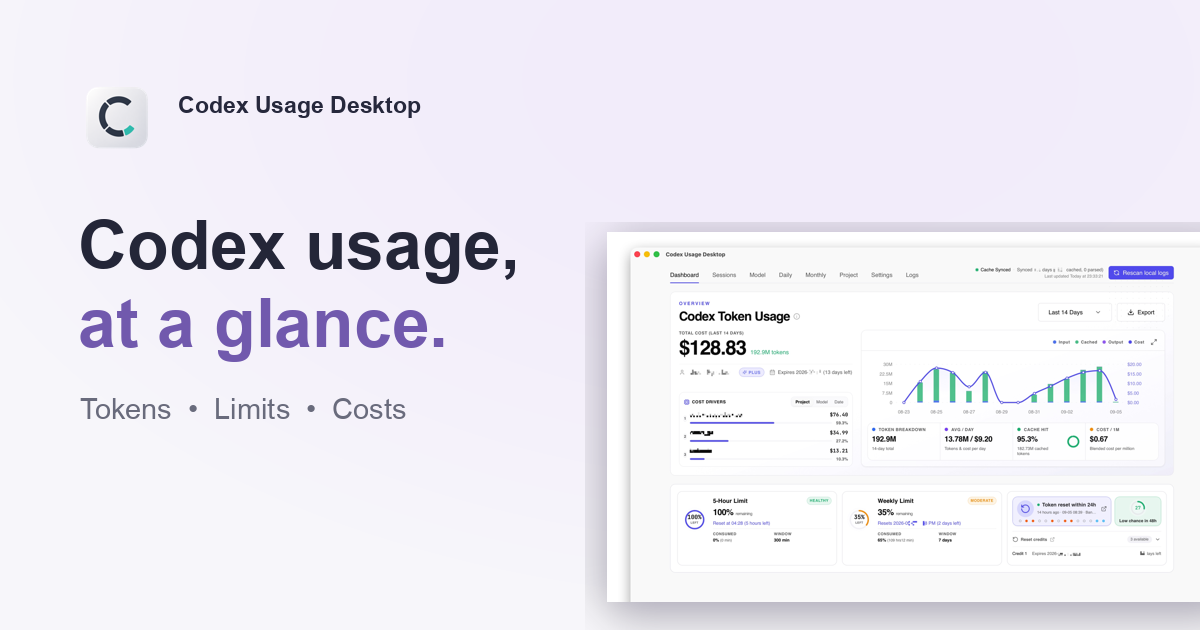
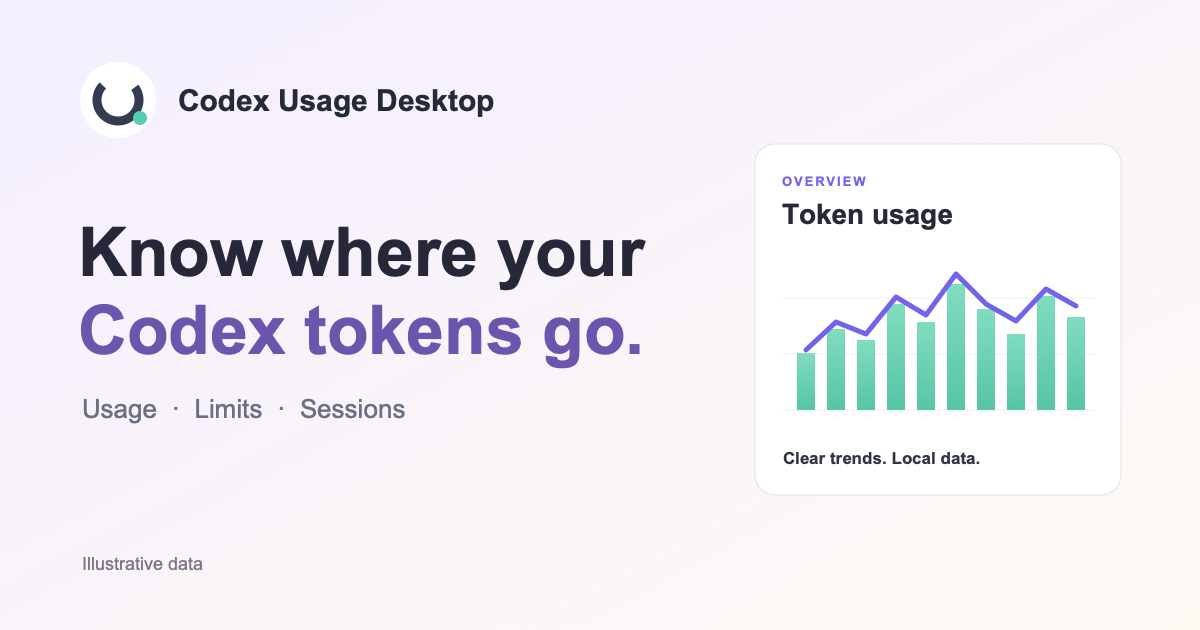
Improve homepage product story with privacy-safe visuals

diff --git a/src/lib/site.ts b/src/lib/site.ts
@@ -20,11 +20,11 @@ export const pathFor = (lang: Lang, section = '') => getRelativeLocaleUrl(lang, 
 export const equivalents = (section = '') => languages.map((lang) => ({ lang, href: getAbsoluteLocaleUrl(lang, section) }));
 
 type FeatureCopy = {
-  name: string; eyebrow: string; title: string; description: string; points: string[]; image: string; imageAlt: string;
+  name: string; eyebrow: string; title: string; description: string; points: string[]; imageAlt: string;
 };
 type Copy = {
   locale: string; name: string; nav: { features: string; download: string; docs: string; github: string; menu: string; language: string };
-  home: { eyebrow: string; title: string; lead: string; cta: string; secondary: string; proof: string[]; sectionTitle: string; sectionLead: string; privacyTitle: string; privacyBody: string; privacyLink: string; closing: string };
+  home: { eyebrow: string; title: string; lead: string; cta: string; secondary: string; proof: string[]; sectionTitle: string; sectionLead: string; visualNote: string; workflowEyebrow: string; workflowTitle: string; workflowLead: string; workflow: { title: string; body: string }[]; privacyTitle: string; privacyBody: string; privacyLink: string; closing: string };
   download: { title: string; lead: string; windows: string; windowsNote: string; mac: string; macNote: string; arm: string; intel: string; requirements: string; requireBody: string; firstLaunch: string; firstLaunchBody: string; releases: string; auto: string };
   features: Record<FeatureSlug, FeatureCopy>;
   docs: { title: string; lead: string; open: string; all: string; edit: string; names: Record<DocSlug, string> };
@@ -41,41 +41,42 @@ export const copy: Record<Lang, Copy> = {
       cta: 'Download free', secondary: 'Explore the dashboard',
       proof: ['Local-first by design', 'No API key required', 'macOS and Windows'],
       sectionTitle: 'The whole picture, at a glance.', sectionLead: 'From a quick quota check to the details behind a long session, get answers without digging through logs.',
+      visualNote: 'Illustrative usage data. Product screenshots show public settings and pricing only.', workflowEyebrow: 'A simple flow', workflowTitle: 'From a quick check to a clear answer.', workflowLead: 'Open the app when you need context, or keep your limits visible while you work.', workflow: [{ title: 'Check your headroom', body: 'See remaining limits and reset times in the dashboard or menu bar.' }, { title: 'Find the source', body: 'Compare trends, projects and models to spot what changed.' }, { title: 'Review or export', body: 'Follow a session timeline or export the selected range.' }],
       privacyTitle: 'Your sessions stay yours.', privacyBody: 'Codex Usage Desktop reads session logs locally and stores aggregated usage in a local SQLite cache. It never uploads your session logs. Live limits and public updates use specific network requests.', privacyLink: 'How privacy works',
       closing: 'Spend less time guessing. Get back to building.',
     },
     download: { title: 'Download Codex Usage Desktop', lead: 'Free and open source. Choose the installer for your computer, then open the app to index your existing Codex sessions.', windows: 'Windows 10/11 x64', windowsNote: 'Current-user installer. The installer is not yet Authenticode-signed, so SmartScreen may ask you to confirm the GitHub release source.', mac: 'macOS', macNote: 'Open the DMG and move the app to Applications.', arm: 'Apple Silicon', intel: 'Intel Mac', requirements: 'Before you begin', requireBody: 'Use Codex CLI first so local session logs exist. Live limits require a signed-in local Codex CLI session.', firstLaunch: 'First launch on macOS', firstLaunchBody: 'If Gatekeeper blocks the app, open System Settings → Privacy & Security and allow it there. The app does not bypass Gatekeeper.', releases: 'Release notes and all assets', auto: 'Choose a download' },
     features: {
-      'usage-tracking': { name: 'Usage tracking', eyebrow: 'Usage tracking', title: 'See every token in context.', description: 'Turn local Codex session logs into a clear view of input, output, and cached tokens. Compare daily and monthly trends, cache hit rate, and custom date ranges.', points: ['Daily and monthly usage trends', 'Input, output, and cached token breakdowns', 'Project, model, and session drilldowns'], image: '/images/dashboard.jpg', imageAlt: 'Codex Usage Desktop dashboard with usage charts' },
-      'quota-monitoring': { name: 'Quota monitoring', eyebrow: 'Quota monitoring', title: 'Know your limits before you hit them.', description: 'See your live 5-hour and weekly or monthly limits, remaining quota, and reset countdowns using your existing local Codex login.', points: ['Remaining quota and reset times', 'Menu bar and system tray visibility', 'Reset credits and forecasts when available'], image: '/images/menubar.jpg', imageAlt: 'Codex quota in the macOS menu bar' },
-      'cost-analysis': { name: 'Cost analysis', eyebrow: 'Cost analysis', title: 'Understand what drives your estimated cost.', description: 'See estimated costs beside token usage, then break them down by project, model, day, month, or session. Estimates use available model pricing.', points: ['Project and model cost breakdowns', 'Token composition beside estimates', 'Export the selected range to Excel or Markdown'], image: '/images/project-usage-detail.jpg', imageAlt: 'Project usage detail with estimated costs' },
-      'session-analysis': { name: 'Session analysis', eyebrow: 'Session analysis', title: 'Follow the work behind the numbers.', description: 'Search your local Codex sessions and inspect a timeline of recorded commands, tools, patches, web searches, and usage.', points: ['Search by title, project, and model', 'Session timeline and subagent hierarchy', 'Usage and quota changes in context'], image: '/images/session-detail.jpg', imageAlt: 'Codex session detail timeline' },
+      'usage-tracking': { name: 'Usage tracking', eyebrow: 'Usage tracking', title: 'See every token in context.', description: 'Turn local Codex session logs into a clear view of input, output, and cached tokens. Compare daily and monthly trends, cache hit rate, and custom date ranges.', points: ['Daily and monthly usage trends', 'Input, output, and cached token breakdowns', 'Project, model, and session drilldowns'], imageAlt: 'Illustrative Codex Usage Desktop dashboard with sample usage data' },
+      'quota-monitoring': { name: 'Quota monitoring', eyebrow: 'Quota monitoring', title: 'Know your limits before you hit them.', description: 'See your live 5-hour and weekly or monthly limits, remaining quota, and reset countdowns using your existing local Codex login.', points: ['Remaining quota and reset times', 'Menu bar and system tray visibility', 'Reset credits and forecasts when available'], imageAlt: 'Codex Usage Desktop menu bar and system tray settings' },
+      'cost-analysis': { name: 'Cost analysis', eyebrow: 'Cost analysis', title: 'Understand what drives your estimated cost.', description: 'See estimated costs beside token usage, then break them down by project, model, day, month, or session. Estimates use available model pricing.', points: ['Project and model cost breakdowns', 'Token composition beside estimates', 'Export the selected range to Excel or Markdown'], imageAlt: 'Codex Usage Desktop public model pricing catalog' },
+      'session-analysis': { name: 'Session analysis', eyebrow: 'Session analysis', title: 'Follow the work behind the numbers.', description: 'Search your local Codex sessions and inspect a timeline of recorded commands, tools, patches, web searches, and usage.', points: ['Search by title, project, and model', 'Session timeline and subagent hierarchy', 'Usage and quota changes in context'], imageAlt: 'Illustrative Codex session timeline with sample events' },
     },
     docs: { title: 'Guides for everyday use', lead: 'Get set up, understand your numbers, and resolve common issues.', open: 'Read guide', all: 'All guides', edit: 'Improve this guide on GitHub', names: { 'getting-started': 'Install & get started', dashboard: 'Dashboard', quota: 'Quota & limits', 'projects-and-models': 'Projects & models', sessions: 'Sessions', resets: 'Quota resets', export: 'Export data', privacy: 'Privacy & network access', 'windows-wsl': 'Windows & WSL', 'advanced-settings': 'Advanced settings', troubleshooting: 'Troubleshooting' } },
     common: { learn: 'Learn more', get: 'Get the app', built: 'Free and open source', copyright: 'Codex Usage Desktop', home: 'Home' },
   },
   zh: {
     locale: 'zh-CN', name: '简体中文', nav: { features: '功能', download: '下载', docs: '文档', github: 'GitHub', menu: '打开菜单', language: '语言' },
-    home: { eyebrow: '更清楚地了解 Codex 使用情况', title: '每一个 Token，都心中有数。', lead: '在一款注重隐私的桌面应用中查看用量、监控额度并理解每段会话。Codex 数据留在你的电脑上。', cta: '免费下载', secondary: '探索看板', proof: ['本地优先', '无需 API Key', '支持 macOS 和 Windows'], sectionTitle: '从概览到细节，一目了然。', sectionLead: '快速查看剩余额度，也能深入长会话的细节，无需翻查日志。', privacyTitle: '会话数据由你掌控。', privacyBody: '应用在本地读取会话日志，并把汇总数据存入本地 SQLite 缓存，不会上传会话日志。实时额度与公开信息更新会使用特定网络请求。', privacyLink: '了解隐私机制', closing: '少一点猜测，多一点专注。' },
+    home: { eyebrow: '更清楚地了解 Codex 使用情况', title: '每一个 Token，都心中有数。', lead: '在一款注重隐私的桌面应用中查看用量、监控额度并理解每段会话。Codex 数据留在你的电脑上。', cta: '免费下载', secondary: '探索看板', proof: ['本地优先', '无需 API Key', '支持 macOS 和 Windows'], sectionTitle: '从概览到细节，一目了然。', sectionLead: '快速查看剩余额度，也能深入长会话的细节，无需翻查日志。', visualNote: '用量与会话画面为示意数据；现场截图仅展示公开设置和价格目录。', workflowEyebrow: '使用路径', workflowTitle: '从快速查看，到找到答案。', workflowLead: '工作时让额度常驻菜单栏，需要细节时再打开应用。', workflow: [{ title: '先看剩余额度', body: '在看板或菜单栏查看额度余额和重置时间。' }, { title: '找出用量来源', body: '对比趋势、项目和模型，定位变化。' }, { title: '回看或导出', body: '沿会话时间线复盘，或导出选定区间。' }], privacyTitle: '会话数据由你掌控。', privacyBody: '应用在本地读取会话日志，并把汇总数据存入本地 SQLite 缓存，不会上传会话日志。实时额度与公开信息更新会使用特定网络请求。', privacyLink: '了解隐私机制', closing: '少一点猜测，多一点专注。' },
     download: { title: '下载 Codex Usage Desktop', lead: '免费开源。选择适合电脑的安装包，打开应用即可索引已有的 Codex 会话。', windows: 'Windows 10/11 x64', windowsNote: '按当前用户安装。安装包尚未进行 Authenticode 签名，SmartScreen 可能提示你确认文件来自 GitHub Release。', mac: 'macOS', macNote: '打开 DMG，将应用拖入“应用程序”。', arm: 'Apple 芯片', intel: 'Intel Mac', requirements: '使用前准备', requireBody: '先使用 Codex CLI，确保本地已有会话日志。实时额度需要本机 Codex CLI 已登录。', firstLaunch: 'macOS 首次启动', firstLaunchBody: '如果 Gatekeeper 阻止启动，可在“系统设置 → 隐私与安全性”中允许。应用不会绕过 Gatekeeper。', releases: '发行说明与全部资产', auto: '选择下载版本' },
     features: {
-      'usage-tracking': { name: '用量追踪', eyebrow: '用量追踪', title: '看清每个 Token 的去向。', description: '把本地 Codex 会话日志变成清晰的输入、输出和缓存 Token 统计，并对比每日、每月趋势与缓存命中率。', points: ['每日与每月用量趋势', '输入、输出和缓存 Token 明细', '按项目、模型和会话深入查看'], image: '/images/dashboard.jpg', imageAlt: '显示用量图表的 Codex Usage Desktop 看板' },
-      'quota-monitoring': { name: '额度监控', eyebrow: '额度监控', title: '在触及限制前掌握余额。', description: '使用本机已有的 Codex 登录状态，查看实时 5 小时和每周或每月额度、剩余量及重置倒计时。', points: ['剩余额度与重置时间', '菜单栏和系统托盘常驻显示', '可用时展示重置额度和预测'], image: '/images/menubar.jpg', imageAlt: 'macOS 菜单栏中的 Codex 额度' },
-      'cost-analysis': { name: '成本分析', eyebrow: '成本分析', title: '理解预估成本来自哪里。', description: '将预估成本与 Token 用量放在一起，按项目、模型、日期和会话拆解。估算依据可用的模型价格。', points: ['项目和模型成本拆解', '预估成本与 Token 构成', '将选定日期范围导出为 Excel 或 Markdown'], image: '/images/project-usage-detail.jpg', imageAlt: '展示预估成本的项目用量详情' },
-      'session-analysis': { name: '会话分析', eyebrow: '会话分析', title: '沿时间线回看具体工作。', description: '搜索本地 Codex 会话，查看日志记录的命令、工具、补丁、网页搜索和用量变化。', points: ['按标题、项目和模型搜索', '会话时间线与子代理层级', '结合上下文查看用量和额度变化'], image: '/images/session-detail.jpg', imageAlt: 'Codex 会话详情时间线' },
+      'usage-tracking': { name: '用量追踪', eyebrow: '用量追踪', title: '看清每个 Token 的去向。', description: '把本地 Codex 会话日志变成清晰的输入、输出和缓存 Token 统计，并对比每日、每月趋势与缓存命中率。', points: ['每日与每月用量趋势', '输入、输出和缓存 Token 明细', '按项目、模型和会话深入查看'], imageAlt: '采用示意数据的 Codex Usage Desktop 看板' },
+      'quota-monitoring': { name: '额度监控', eyebrow: '额度监控', title: '在触及限制前掌握余额。', description: '使用本机已有的 Codex 登录状态，查看实时 5 小时和每周或每月额度、剩余量及重置倒计时。', points: ['剩余额度与重置时间', '菜单栏和系统托盘常驻显示', '可用时展示重置额度和预测'], imageAlt: 'Codex Usage Desktop 菜单栏与系统托盘设置' },
+      'cost-analysis': { name: '成本分析', eyebrow: '成本分析', title: '理解预估成本来自哪里。', description: '将预估成本与 Token 用量放在一起，按项目、模型、日期和会话拆解。估算依据可用的模型价格。', points: ['项目和模型成本拆解', '预估成本与 Token 构成', '将选定日期范围导出为 Excel 或 Markdown'], imageAlt: 'Codex Usage Desktop 公开模型价格目录' },
+      'session-analysis': { name: '会话分析', eyebrow: '会话分析', title: '沿时间线回看具体工作。', description: '搜索本地 Codex 会话，查看日志记录的命令、工具、补丁、网页搜索和用量变化。', points: ['按标题、项目和模型搜索', '会话时间线与子代理层级', '结合上下文查看用量和额度变化'], imageAlt: '采用示意事件的 Codex 会话时间线' },
     },
     docs: { title: '日常使用指南', lead: '完成安装、读懂数据并解决常见问题。', open: '阅读指南', all: '全部指南', edit: '在 GitHub 改进此指南', names: { 'getting-started': '安装与入门', dashboard: '看板', quota: '额度与限制', 'projects-and-models': '项目与模型', sessions: '会话', resets: '额度重置', export: '导出数据', privacy: '隐私与网络访问', 'windows-wsl': 'Windows 与 WSL', 'advanced-settings': '进阶设置', troubleshooting: '故障排查' } },
     common: { learn: '了解更多', get: '获取应用', built: '免费开源', copyright: 'Codex Usage Desktop', home: '首页' },
   },
   ja: {
     locale: 'ja', name: '日本語', nav: { features: '機能', download: 'ダウンロード', docs: 'ガイド', github: 'GitHub', menu: 'メニューを開く', language: '言語' },
-    home: { eyebrow: 'Codex の利用状況を、もっと明確に', title: 'Codex のトークンを見える化。', lead: '使用量、上限、セッションの詳細を、プライバシーを重視したデスクトップアプリで確認。Codex データは端末内に残ります。', cta: '無料でダウンロード', secondary: 'ダッシュボードを見る', proof: ['ローカル優先', 'API キー不要', 'macOS・Windows 対応'], sectionTitle: '全体像から細部まで、ひと目で。', sectionLead: '残りの利用枠をすぐに確認。長いセッションもログを読み解かずに振り返れます。', privacyTitle: 'セッションデータはあなたのもの。', privacyBody: 'セッションログをローカルで読み取り、集計結果を端末内の SQLite キャッシュに保存します。ログはアップロードされません。利用枠や公開情報の更新には限定的な通信を使います。', privacyLink: 'プライバシーについて', closing: '推測する時間を減らして、制作に集中。' },
+    home: { eyebrow: 'Codex の利用状況を、もっと明確に', title: 'Codex のトークンを見える化。', lead: '使用量、上限、セッションの詳細を、プライバシーを重視したデスクトップアプリで確認。Codex データは端末内に残ります。', cta: '無料でダウンロード', secondary: 'ダッシュボードを見る', proof: ['ローカル優先', 'API キー不要', 'macOS・Windows 対応'], sectionTitle: '全体像から細部まで、ひと目で。', sectionLead: '残りの利用枠をすぐに確認。長いセッションもログを読み解かずに振り返れます。', visualNote: '使用量とセッションはサンプルデータです。実際の画面写真は公開設定と料金表のみを掲載しています。', workflowEyebrow: '使い方', workflowTitle: '残りを確認し、理由を見つける。', workflowLead: '作業中はメニューバーで確認。詳しく調べたいときはアプリを開けます。', workflow: [{ title: '残りの枠を確認', body: 'ダッシュボードやメニューバーで残量とリセット時刻を見る。' }, { title: '使用量の元を探す', body: '推移、プロジェクト、モデルを比較して変化を見つける。' }, { title: '振り返り・書き出し', body: 'セッションの時系列を確認し、期間を選んで出力する。' }], privacyTitle: 'セッションデータはあなたのもの。', privacyBody: 'セッションログをローカルで読み取り、集計結果を端末内の SQLite キャッシュに保存します。ログはアップロードされません。利用枠や公開情報の更新には限定的な通信を使います。', privacyLink: 'プライバシーについて', closing: '推測する時間を減らして、制作に集中。' },
     download: { title: 'Codex Usage Desktop をダウンロード', lead: '無料のオープンソースアプリです。端末に合うインストーラーを選び、起動すると既存の Codex セッションを読み込みます。', windows: 'Windows 10/11 x64', windowsNote: '現在のユーザー向けにインストールします。Authenticode 署名はまだなく、SmartScreen が GitHub Release からのファイルか確認を求める場合があります。', mac: 'macOS', macNote: 'DMG を開き、アプリを Applications に移動してください。', arm: 'Apple Silicon', intel: 'Intel Mac', requirements: '始める前に', requireBody: '先に Codex CLI を使い、ローカルにセッションログを作成してください。利用枠の取得には Codex CLI へのログインが必要です。', firstLaunch: 'macOS で初めて起動するとき', firstLaunchBody: 'Gatekeeper にブロックされた場合は「システム設定 → プライバシーとセキュリティ」から許可してください。アプリが Gatekeeper を回避することはありません。', releases: 'リリースノートと全ファイル', auto: 'ダウンロードを選択' },
     features: {
-      'usage-tracking': { name: '使用量の追跡', eyebrow: '使用量の追跡', title: 'トークンの使い道を把握。', description: 'ローカルの Codex セッションログから、入力・出力・キャッシュトークンを可視化。日次・月次の推移やキャッシュヒット率を確認できます。', points: ['日次・月次の使用量推移', '入力・出力・キャッシュの内訳', 'プロジェクト・モデル・セッション別の詳細'], image: '/images/dashboard.jpg', imageAlt: '使用量グラフを表示するダッシュボード' },
-      'quota-monitoring': { name: '利用枠の確認', eyebrow: '利用枠の確認', title: '上限に達する前に、残りを確認。', description: '端末にある Codex のログイン情報を使い、5 時間枠と週次・月次枠の残量、リセットまでの時間を表示します。', points: ['残りの利用枠とリセット時刻', 'メニューバーとシステムトレイに表示', '利用可能な場合はリセットクレジットと予測も表示'], image: '/images/menubar.jpg', imageAlt: 'macOS メニューバーの Codex 利用枠' },
-      'cost-analysis': { name: 'コスト分析', eyebrow: 'コスト分析', title: '推定コストの内訳を理解。', description: '推定コストをトークン使用量とともに表示し、プロジェクト、モデル、日付、セッション別に確認。利用可能なモデル価格を使った推定値です。', points: ['プロジェクト・モデル別の推定コスト', 'トークン内訳との比較', '選択した期間を Excel または Markdown に出力'], image: '/images/project-usage-detail.jpg', imageAlt: '推定コストを含むプロジェクト使用量の詳細' },
-      'session-analysis': { name: 'セッション分析', eyebrow: 'セッション分析', title: '数字の裏にある作業をたどる。', description: 'ローカルの Codex セッションを検索し、記録されたコマンド、ツール、パッチ、Web 検索、使用量を時系列で確認します。', points: ['タイトル・プロジェクト・モデルで検索', 'タイムラインとサブエージェントの階層', '使用量と利用枠の変化を文脈とともに表示'], image: '/images/session-detail.jpg', imageAlt: 'Codex セッション詳細のタイムライン' },
+      'usage-tracking': { name: '使用量の追跡', eyebrow: '使用量の追跡', title: 'トークンの使い道を把握。', description: 'ローカルの Codex セッションログから、入力・出力・キャッシュトークンを可視化。日次・月次の推移やキャッシュヒット率を確認できます。', points: ['日次・月次の使用量推移', '入力・出力・キャッシュの内訳', 'プロジェクト・モデル・セッション別の詳細'], imageAlt: 'サンプルデータを使った Codex Usage Desktop ダッシュボード' },
+      'quota-monitoring': { name: '利用枠の確認', eyebrow: '利用枠の確認', title: '上限に達する前に、残りを確認。', description: '端末にある Codex のログイン情報を使い、5 時間枠と週次・月次枠の残量、リセットまでの時間を表示します。', points: ['残りの利用枠とリセット時刻', 'メニューバーとシステムトレイに表示', '利用可能な場合はリセットクレジットと予測も表示'], imageAlt: 'Codex Usage Desktop のメニューバーとトレイ設定' },
+      'cost-analysis': { name: 'コスト分析', eyebrow: 'コスト分析', title: '推定コストの内訳を理解。', description: '推定コストをトークン使用量とともに表示し、プロジェクト、モデル、日付、セッション別に確認。利用可能なモデル価格を使った推定値です。', points: ['プロジェクト・モデル別の推定コスト', 'トークン内訳との比較', '選択した期間を Excel または Markdown に出力'], imageAlt: 'Codex Usage Desktop の公開モデル料金表' },
+      'session-analysis': { name: 'セッション分析', eyebrow: 'セッション分析', title: '数字の裏にある作業をたどる。', description: 'ローカルの Codex セッションを検索し、記録されたコマンド、ツール、パッチ、Web 検索、使用量を時系列で確認します。', points: ['タイトル・プロジェクト・モデルで検索', 'タイムラインとサブエージェントの階層', '使用量と利用枠の変化を文脈とともに表示'], imageAlt: 'サンプルイベントを使った Codex セッションの時系列' },
     },
     docs: { title: '日々の利用ガイド', lead: 'セットアップ、数値の見方、よくある問題の解決方法をまとめました。', open: 'ガイドを読む', all: 'すべてのガイド', edit: 'GitHub でこのガイドを改善', names: { 'getting-started': 'インストールと開始', dashboard: 'ダッシュボード', quota: '利用枠と上限', 'projects-and-models': 'プロジェクトとモデル', sessions: 'セッション', resets: '利用枠のリセット', export: 'データのエクスポート', privacy: 'プライバシーと通信', 'windows-wsl': 'Windows と WSL', 'advanced-settings': '詳細設定', troubleshooting: 'トラブルシューティング' } },
     common: { learn: '詳しく見る', get: 'アプリを入手', built: '無料・オープンソース', copyright: 'Codex Usage Desktop', home: 'ホーム' },

diff --git a/src/styles/visuals.css b/src/styles/visuals.css
@@ -1,0 +1,38 @@
+.visual-note{margin:13px 0 0;color:#747585;font-size:12px;line-height:1.5;text-align:center}
+.hero h1{max-width:1080px;text-wrap:balance}
+.product-visual{width:100%;overflow:hidden;border-radius:14px;background:#fff;color:#252a35;text-align:left;box-shadow:0 12px 34px #27203d16}
+.product-visual>img{display:block;width:100%;height:auto}
+.demo-dashboard{padding:24px;background:linear-gradient(140deg,#fff 75%,#f7f5fc);font-family:Inter,ui-sans-serif,-apple-system,BlinkMacSystemFont,"Segoe UI",sans-serif}
+.demo-topline{display:flex;justify-content:space-between;align-items:center;margin-bottom:13px}
+.demo-overline{font-size:11px;letter-spacing:.19em;font-weight:800;color:#6963f3}
+.demo-range{border:1px solid #e9e9ef;border-radius:9px;padding:7px 13px;color:#565b68;font-size:12px}
+.demo-dashboard-grid{display:grid;grid-template-columns:35% 1fr;gap:16px}
+.demo-summary,.demo-chart,.demo-limits>div{border:1px solid #e9e9ef;border-radius:13px;background:#fff}
+.demo-summary{padding:20px;display:flex;flex-direction:column;align-items:flex-start;min-height:260px}
+.demo-summary>span{font-size:10px;letter-spacing:.09em;font-weight:800;color:#9294a0}
+.demo-summary>strong{margin-top:4px;font-size:clamp(24px,3.1vw,45px);letter-spacing:-.06em;line-height:1.1}
+.demo-summary>em{font-style:normal;font-size:11px;color:#2bb78d;margin-top:5px}
+.demo-rule{height:1px;background:#edeef2;width:100%;margin:19px 0 15px}
+.demo-driver{width:100%;margin-top:9px;font-size:11px;font-weight:650}
+.demo-driver b{display:block;height:5px;border-radius:5px;background:#7464f3;margin-top:5px}
+.demo-chart{padding:15px 17px 0;min-width:0;display:flex;flex-direction:column}
+.demo-legend{display:flex;justify-content:flex-end;gap:15px;font-size:10px;font-weight:700;color:#7d808b}
+.demo-legend span:first-child{color:#5b93f3}.demo-legend span:nth-child(2){color:#48c4a1}.demo-legend span:nth-child(3){color:#a77cf5}
+.demo-bars{height:154px;display:flex;align-items:end;justify-content:space-around;gap:8px;padding:15px 10px 0;border-bottom:1px solid #ececf2;background:repeating-linear-gradient(to top,#ececf2 0 1px,transparent 1px 40px)}
+.demo-bars>span{position:relative;display:block;width:min(24px,7%);border-radius:3px 3px 0 0;background:#56c5a6}
+.demo-bars>span i{position:absolute;bottom:0;left:0;right:0;height:10%;background:#7c73f5}
+.demo-chart-footer{display:grid;grid-template-columns:repeat(3,1fr);margin-top:auto;border-top:1px solid #ededf1}
+.demo-chart-footer>div{padding:12px 9px}.demo-chart-footer>div+div{border-left:1px solid #ededf1}
+.demo-chart-footer small{display:block;color:#858995;font-size:9px;font-weight:700;white-space:nowrap}.demo-chart-footer strong{display:block;margin-top:4px;font-size:17px;letter-spacing:-.04em}
+.demo-limits{display:grid;grid-template-columns:1fr 1fr;gap:16px;margin-top:16px}
+.demo-limits>div{padding:15px 18px}.demo-limits span{display:block;font-size:11px;font-weight:700}.demo-limits strong{display:block;margin:6px 0 9px;font-size:19px}.demo-limits small{font-size:10px;font-weight:500;color:#747887}.demo-limits b{display:block;height:6px;width:74%;border-radius:5px;background:#6d64ee}.demo-limits>div:nth-child(2) b{width:48%;background:#f2ad35}
+.demo-session{padding:20px 24px;background:#fff}.demo-session-top{display:flex;justify-content:space-between;gap:10px;font-size:11px;color:#858994;font-weight:700;letter-spacing:.04em}.demo-session-tags{display:flex;gap:6px;flex-wrap:wrap;margin:14px 0 20px}.demo-session-tags span{padding:5px 8px;border:1px solid #e7e4f1;border-radius:7px;color:#7063bd;font-size:10px;font-weight:700}.demo-event{display:flex;gap:12px;position:relative;min-height:75px}.demo-event:not(:last-child):before{content:"";position:absolute;left:6px;top:16px;bottom:-1px;width:2px;background:#e5dff4}.demo-event-dot{position:relative;z-index:1;flex:none;width:14px;height:14px;border:3px solid #8f77df;border-radius:50%;background:#fff}.demo-event>div{flex:1;border:1px solid #eeeaf5;background:#faf8ff;border-radius:10px;padding:10px 12px;margin:-4px 0 10px}.demo-event small{display:block;font-size:9px;color:#8a7fa7;font-weight:800}.demo-event strong{display:block;margin-top:3px;font-size:13px}.demo-event p{margin:3px 0 0;color:#8a8996;font-size:10px}.demo-event--tool .demo-event-dot{border-color:#40b7aa}.demo-event--tool>div{background:#f4fcfb;border-color:#ddf2ef}.demo-event--patch .demo-event-dot{border-color:#e5aa5c}.demo-event--patch>div{background:#fffaf4;border-color:#f6e9d8}
+.product-visual--compact{margin-top:20px;transform:translateY(14px);border:4px solid #ffffffbd;border-bottom:0;border-radius:12px 12px 0 0;box-shadow:0 -5px 25px #4b45631a}
+.product-visual--compact .demo-dashboard{padding:12px}.product-visual--compact .demo-summary{min-height:188px;padding:11px}.product-visual--compact .demo-chart{padding:10px}.product-visual--compact .demo-bars{height:104px}.product-visual--compact .demo-chart-footer>div{padding:7px 4px}.product-visual--compact .demo-chart-footer strong{font-size:13px}.product-visual--compact .demo-summary>strong{font-size:25px}.product-visual--compact .demo-limits{gap:8px;margin-top:8px}.product-visual--compact .demo-limits>div{padding:9px}.product-visual--compact .demo-limits strong{font-size:14px;margin:3px 0 6px}.product-visual--compact .demo-session{padding:14px}.product-visual--compact .demo-event{min-height:61px}.product-visual--compact .demo-event>div{padding:7px 9px}.product-visual--compact>img{height:250px;object-fit:cover;object-position:top left}
+.demo-quota{padding:18px;background:#fff;display:grid;gap:11px}.demo-quota>div{padding:14px;border:1px solid #e9e8f1;border-radius:10px}.demo-quota span{display:block;font-size:12px;font-weight:750}.demo-quota strong{display:block;margin:9px 0;font-size:23px;letter-spacing:-.04em}.demo-quota small{font-size:10px;color:#777c8a;font-weight:500}.demo-quota b{display:block;width:74%;height:7px;margin-bottom:7px;background:#7067ed;border-radius:5px}.demo-quota>div:nth-child(2) b{width:48%;background:#f1a439}.demo-cost{padding:20px;background:#fff}.demo-cost-head{display:flex;justify-content:space-between;gap:10px;font-size:10px;font-weight:800;letter-spacing:.08em;color:#9895a5}.demo-cost>div:not(.demo-cost-head){display:grid;grid-template-columns:80px 1fr 55px;align-items:center;gap:10px;padding:14px 0;border-bottom:1px solid #efedf2;font-size:11px}.demo-cost b{display:block;height:7px;border-radius:5px;background:#5fc8a8}.demo-cost strong{text-align:right;font-size:12px}.demo-cost>small{display:block;padding-top:14px;color:#9697a3;font-size:10px}
+.feature-media{display:block;margin-top:auto;min-width:0}.feature-media .product-visual{width:100%}.feature-card:nth-child(2) .product-visual{width:88%;margin-inline:auto}.feature-card:nth-child(3) .product-visual{width:100%}
+.feature-card .product-visual img,.feature-card:nth-child(2) .product-visual img{width:100%;margin:0;transform:none;border:0;border-radius:0;box-shadow:none}
+.feature-screenshot .product-visual{box-shadow:none}.feature-screenshot .visual-note{text-align:left}
+.workflow-band{padding:98px 0;background:#f0edf7}.workflow-grid{display:grid;grid-template-columns:repeat(3,1fr);gap:17px}.workflow-step{border:1px solid #e4def0;border-radius:20px;padding:28px;background:#fff}.workflow-step>span{font-size:12px;font-weight:800;letter-spacing:.14em;color:#7f68b9}.workflow-step h3{font-size:23px;letter-spacing:-.04em;margin:24px 0 8px}.workflow-step p{color:#6b6d7a;line-height:1.6;margin:0}
+@media(max-width:700px){.demo-dashboard{padding:12px}.demo-dashboard-grid{gap:8px;grid-template-columns:40% 1fr}.demo-summary{padding:10px;min-height:180px}.demo-summary>strong{font-size:25px}.demo-chart{padding:9px}.demo-legend{gap:5px;font-size:8px}.demo-bars{height:95px;gap:3px;padding:8px 2px 0}.demo-chart-footer>div{padding:7px 3px}.demo-chart-footer small{font-size:7px}.demo-chart-footer strong{font-size:12px}.demo-limits{gap:8px;margin-top:8px}.demo-limits>div{padding:8px}.demo-limits strong{font-size:13px;margin:3px 0 6px}.demo-driver{font-size:9px;margin-top:6px}.demo-rule{margin:10px 0}.demo-range{font-size:9px;padding:4px 6px}.workflow-band{padding:70px 0}.workflow-grid{grid-template-columns:1fr}.workflow-step h3{margin-top:12px}.product-visual--compact>img{height:240px}}
+@media(prefers-color-scheme:dark){.visual-note{color:#a7a7b7}.workflow-band{background:#222334}.workflow-step{background:#2d2d3d;border-color:#464358}.workflow-step p{color:#b9bac8}}

diff --git a/PRODUCT_REVIEW.md b/PRODUCT_REVIEW.md
@@ -1,0 +1,22 @@
+# Website product review — 2026-09-26
+
+## App walkthrough
+
+I opened the installed Codex Usage Desktop 3.6.1 on macOS and inspected its Dashboard, Sessions, Model, Daily, Monthly, Project, Settings, and Logs views. I also opened the menu bar controls, the Model pricing catalog, and the Menu Bar / System Tray settings. The live app confirmed these capabilities:
+
+- Dashboard combines token and estimated cost trends with cost drivers, 5-hour and weekly limits, reset timing, and available reset forecasts.
+- Sessions gives a chronological, command-by-command view. Daily, Monthly, Project, and Model views provide different ways to trace usage.
+- Model contains both usage analysis and a searchable pricing catalog. Settings controls which metrics appear in the menu bar or tray and how countdowns are formatted.
+- The app offers local log rescanning and export from usage views.
+
+## Website improvement plan and execution
+
+1. **Explain the user journey.** Add a three-step flow from checking available quota to locating usage and reviewing or exporting a session. Done on all three localized homepages.
+2. **Make the product visible at useful scale.** Replace the small full-window hero image with a legible dashboard illustration modeled on the current UI. Use focused visuals in feature cards and detail pages. Done.
+3. **Show verified, distinctive controls.** Publish cropped screenshots of the live menu bar settings and public pricing catalog. Done.
+4. **Protect private usage data.** Remove earlier screenshots and the old social card because they retained real totals, project names, log snippets, or other personal context. Keep only public-interface screenshots; render usage and sessions with explicit sample data. Done.
+5. **Validate.** Astro check, build, and site verification pass. Browser review covered a 1440px desktop homepage, a 390px mobile homepage and feature page, image loading, horizontal overflow, console errors, and the mobile menu. Commit after the final review.
+
+## Screenshot policy
+
+`public/images/menu-bar-settings.png` and `public/images/pricing-catalog.png` were captured from the running app with screen-region capture. Their crops exclude the macOS menu bar, account information, personal usage, local paths, and session contents. Pricing rows are public catalog data and may change. The dashboard, session, and social visuals use synthetic data; the site labels them as illustrative. Do not copy live usage screenshots into `public/` without a new privacy review.

diff --git a/README.md b/README.md
@@ -1,6 +1,6 @@
 # Codex Usage Desktop website
 
-Static, three-language website for [Codex Usage Desktop](https://github.com/itvincent-git/codex-usage-desktop). Built with Astro 6, TypeScript, Tailwind CSS, MDX, and small React navigation islands.
+Static, three-language website for [Codex Usage Desktop](https://github.com/itvincent-git/codex-usage-desktop). Built with Astro 7, TypeScript, Tailwind CSS, MDX, and small React navigation islands.
 
 ## Local development
 
@@ -25,4 +25,4 @@ The build writes static files to `dist/`. Documentation lives in `src/content/do
 
 The `main` branch workflow checks and deploys the static `dist/` directory with Wrangler. Set `CLOUDFLARE_API_TOKEN` and `CLOUDFLARE_ACCOUNT_ID` as GitHub Actions secrets. The Cloudflare account must own `itvincent.net`. `wrangler.jsonc` defines the custom domain and has no Worker script or Astro server adapter.
 
-Download links target fixed filenames under the desktop project's latest GitHub release. Keep those filenames in sync if its release process changes. Screenshots and the icon are copied from the desktop repository; `scripts/generate-og.py` creates the share image from them.
+Download links target fixed filenames under the desktop project's latest GitHub release. Keep those filenames in sync if its release process changes. The public screenshots are cropped from the running desktop app and contain only settings and public model pricing. Usage and session visuals use sample data. The social card is a source-controlled SVG with sample data, rendered to `public/og.png` for social previews.
